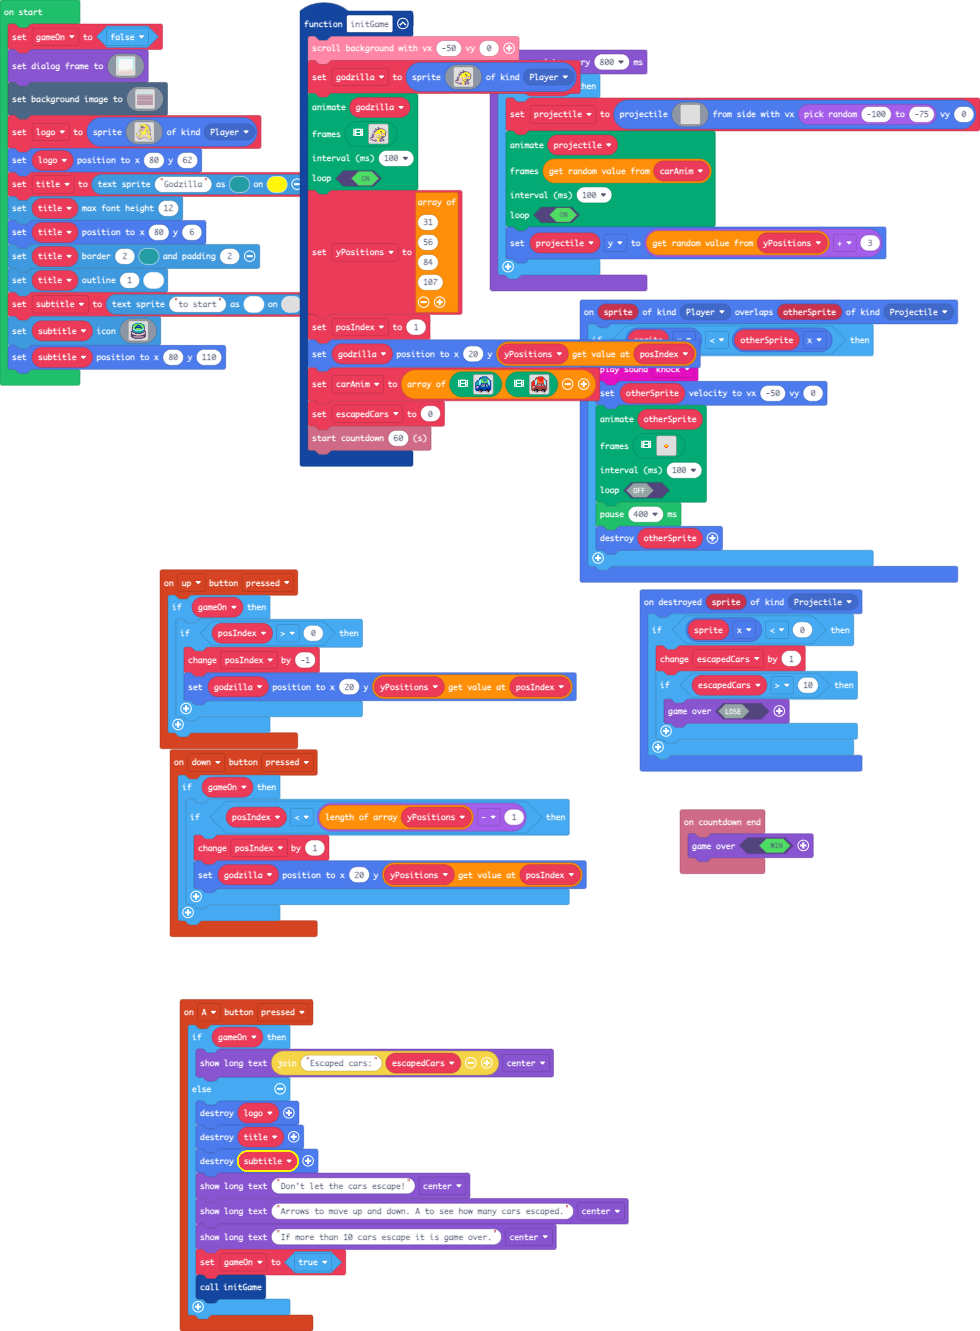
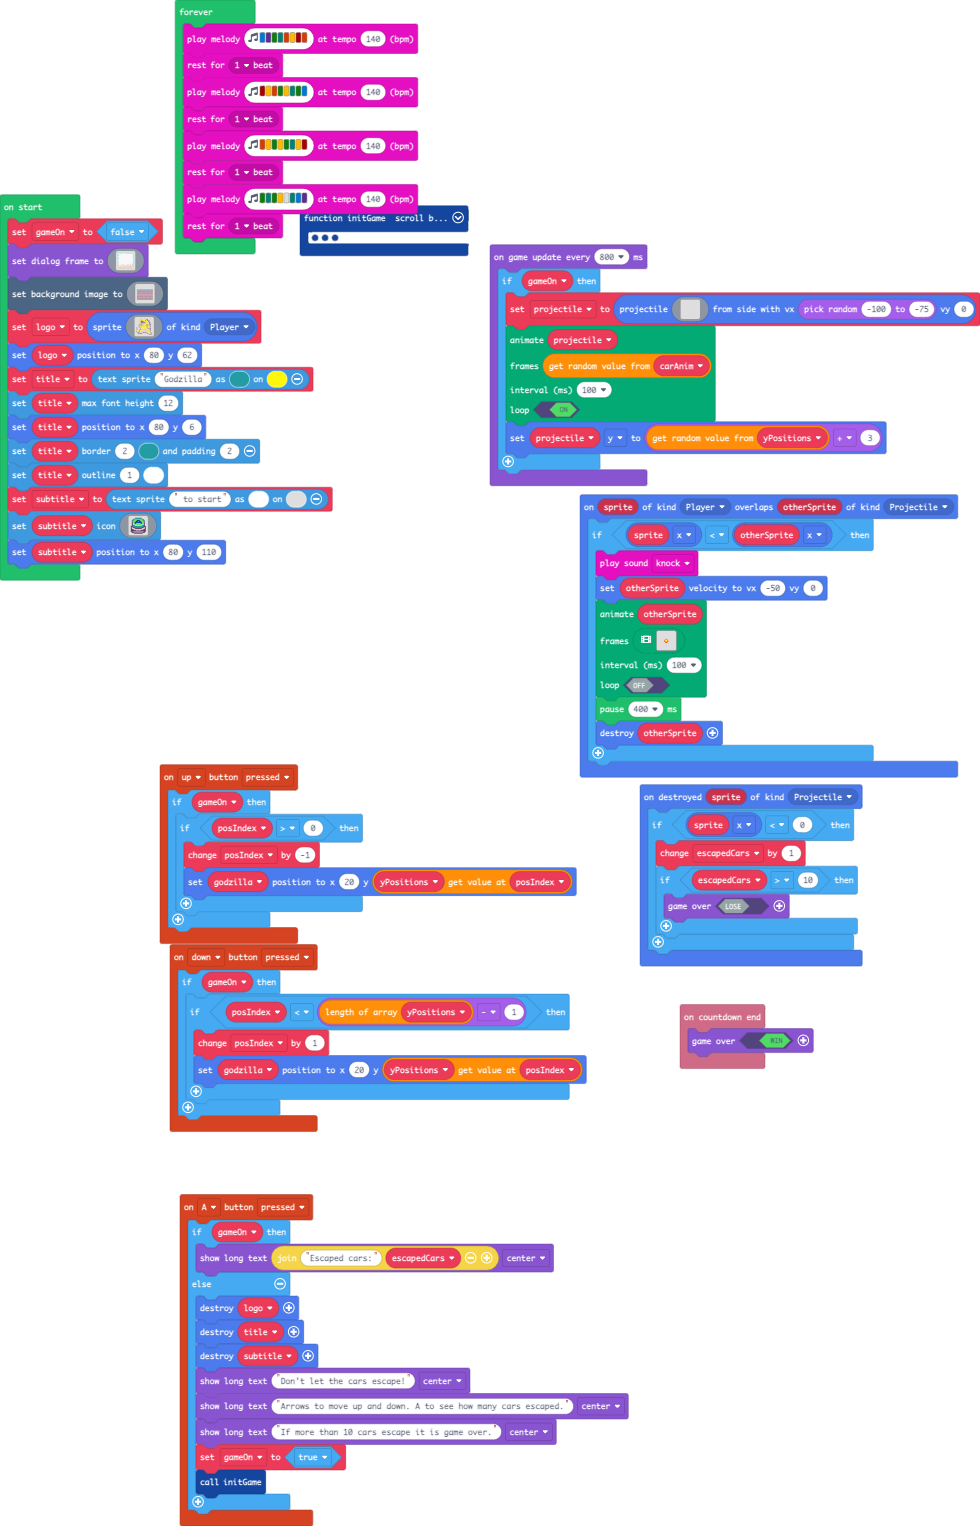
Update main.blocks, main.ts

diff --git a/main.ts b/main.ts
@@ -720,7 +720,7 @@ title.setMaxFontHeight(12)
 title.setPosition(80, 6)
 title.setBorder(2, 6, 2)
 title.setOutline(1, 1)
-subtitle = textsprite.create("to start", 0, 1)
+subtitle = textsprite.create(" to start", 0, 1)
 subtitle.setIcon(img`
     . . . . 6 6 6 6 6 6 6 . . . . 
     . . 6 6 7 7 7 7 7 7 7 6 6 . . 
@@ -768,4 +768,14 @@ game.onUpdateInterval(800, function () {
         )
         projectile.y = yPositions._pickRandom() + 3
     }
+})
+forever(function () {
+    music.playMelody("E D G F B A C5 B ", 140)
+    music.rest(music.beat(BeatFraction.Whole))
+    music.playMelody("C5 A B G A F G E ", 140)
+    music.rest(music.beat(BeatFraction.Whole))
+    music.playMelody("B A G A G F A C5 ", 140)
+    music.rest(music.beat(BeatFraction.Whole))
+    music.playMelody("G F G A - F E D ", 140)
+    music.rest(music.beat(BeatFraction.Whole))
 })
